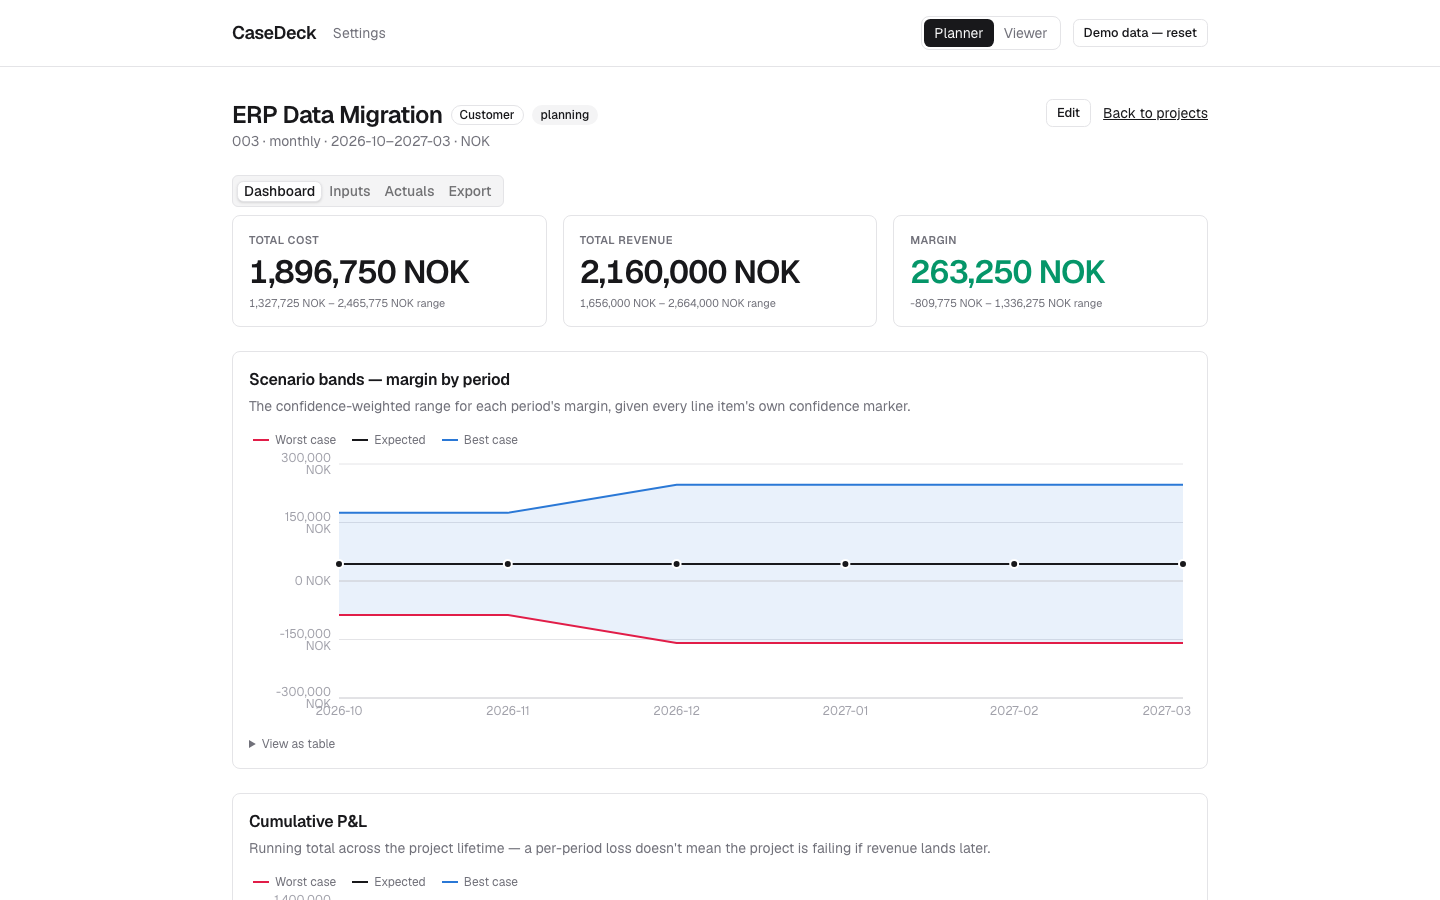
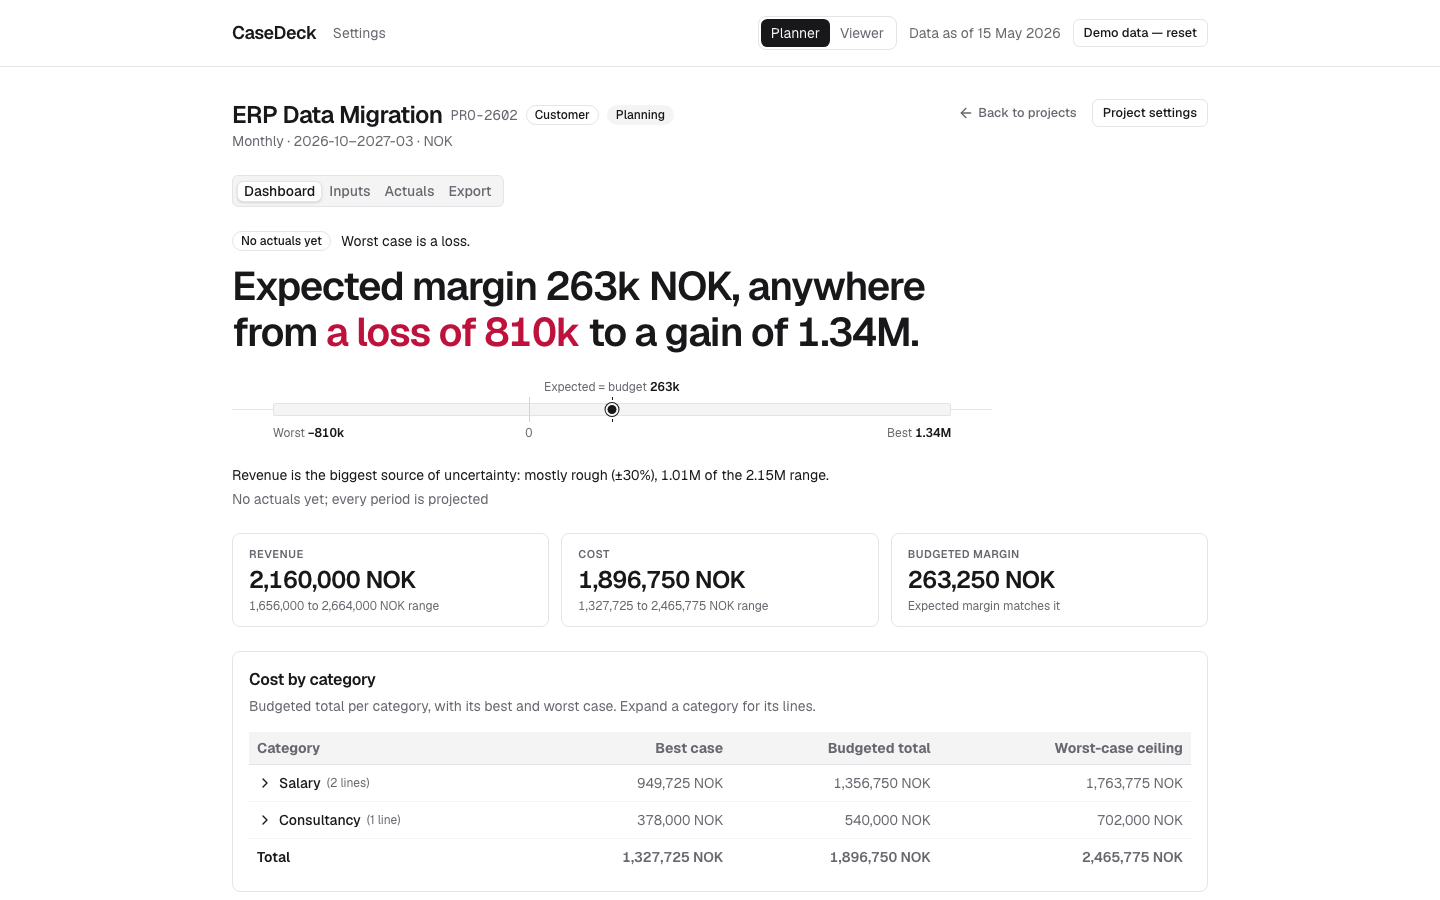
Refresh README screenshots for the verdict-first dashboard and export
The dashboard now leads with the verdict and range strip, the variance
table uses the Past its ceiling wording, and the export opens on a
verdict card. Captions updated to match.

diff --git a/README.md b/README.md
@@ -11,13 +11,13 @@ inside it.
 
 ## Screenshots
 
-| Scenario bands (a range, not one number) | Budget vs. actual (caught before it's unrecoverable) |
+| The verdict (a range, not one number) | Budget vs. actual (caught before it's unrecoverable) |
 |---|---|
-| ![Dashboard showing the ERP Data Migration project's scenario chart, where the worst-case band crosses zero while the expected case stays profitable](docs/screenshots/dashboard-scenario-bands.png) | ![Variance view for the Intranet Relaunch project, showing the consultancy category flagged red for exceeding its worst-case ceiling while salary stays on track](docs/screenshots/variance-overrun.png) |
+| ![Dashboard for the ERP Data Migration project, headlined by an expected margin of 263k NOK that ranges from a loss of 810k to a gain of 1.34M, with a range strip marking worst, expected and best](docs/screenshots/dashboard-scenario-bands.png) | ![Dashboard for the Intranet Relaunch project, showing the consultancy category flagged Past its ceiling in the Budget vs. actual table while salary stays within range](docs/screenshots/variance-overrun.png) |
 
 | The exported business case |
 |---|
-| ![A self-contained HTML business case export, opened from a local file with no network connection, showing the executive summary and scenario figures](docs/screenshots/business-case-export.png) |
+| ![A self-contained HTML business case export, opened from a local file with no network connection, showing the verdict, the executive summary and scenario figures](docs/screenshots/business-case-export.png) |
 
 ## Live demo
 
